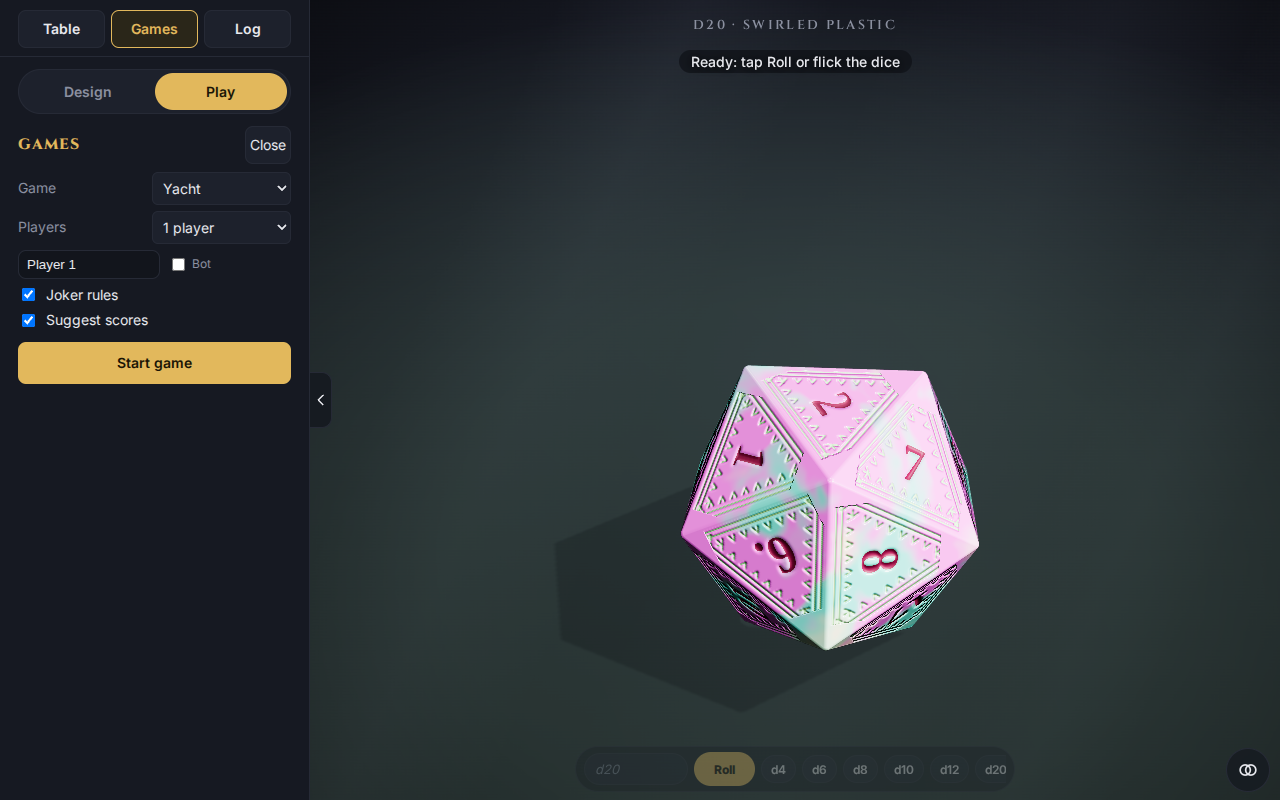
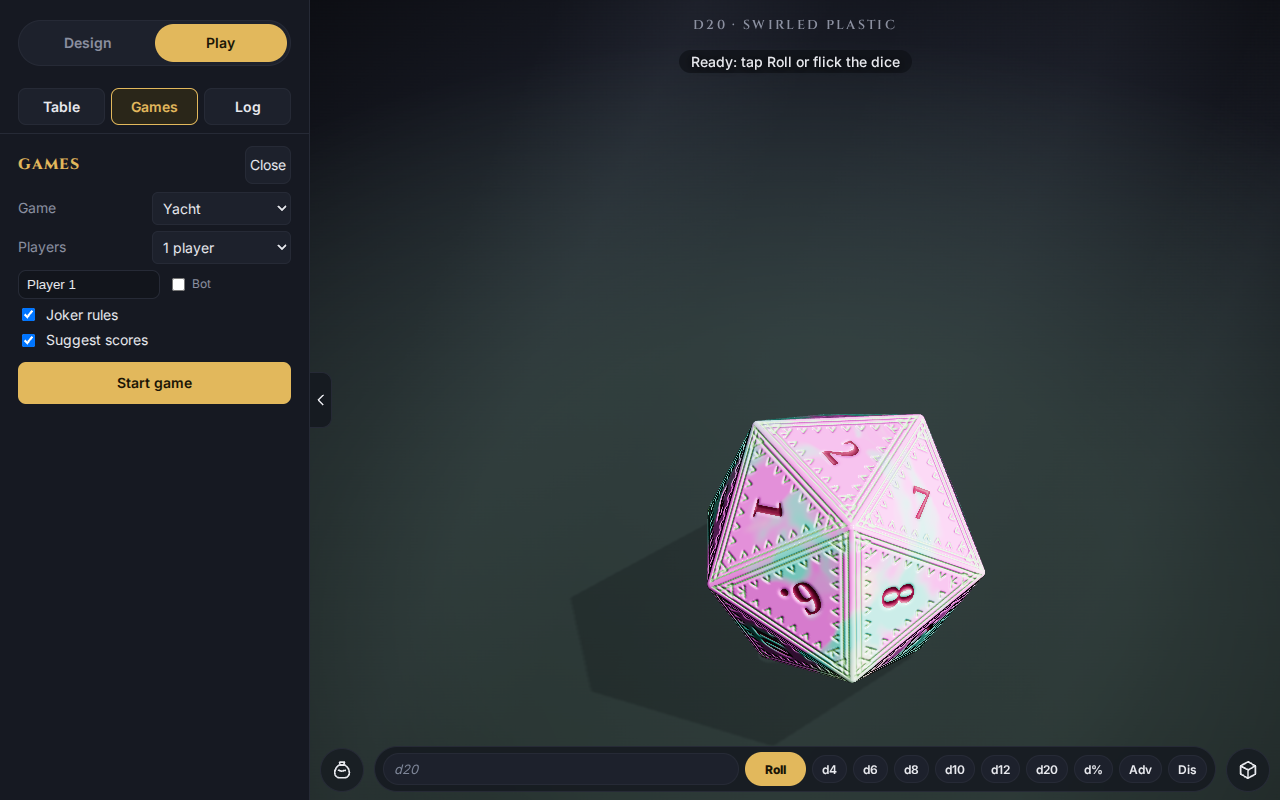
Guide: review against live 4.0 app, phone shots, regenerated screenshots, CHANGELOG/README fixes

diff --git a/README.md b/README.md
@@ -32,7 +32,7 @@ Online, the page loads three.js, cannon-es and fonts from cdn.jsdelivr.net and G
 
 ## Designing Dice
 
-Two rooms, switched with **Design | Play** (the switch never throws the dice). In the **Design** room the die floats and turns and the side panel (below the table on a phone) holds the look settings, with **Undo / Redo** (Ctrl+Z, Ctrl+Y) in a strip at its top. The utilities drawer (paired-circles button, bottom right) has sound, Reset view, Full view, Hints and Pause spin.
+Two rooms, switched with **Design | Play** (the switch never throws the dice). In the **Design** room the die floats and turns and the side panel (below the table on a phone) holds the look settings, with **Undo / Redo** (Ctrl+Z, Ctrl+Y) in a strip at its top. The utilities drawer (paired-circles button, bottom right) has sound, Reset view, Full view, Hints, Pause spin and the Design | Play switch (the only place for it on a phone).
 
 - **Randomize** (or press Space) rerolls the look; "Also randomize" chooses whether the substrate and the shape change too.
 - **Shape**: pick a die, or build a **Custom set** (see below). A tap picks one die; a double-click or long press adds one to the formula.
@@ -53,7 +53,7 @@ In the **Play** room, the gold **Roll** button in the dock (or `r`) is the only 
 - **The tray** is sized from the dice (how many and how big), not from the screen, and the camera starts far enough back to show all of it. Zoom is yours to change.
 - **Roll feel & sound** (it moves to the top of the pane while you roll): **Bounciness**, **Dice friction** and **Mat friction** change how the dice behave; the defaults are slippery enough that dice slide apart instead of snagging.
 - **Leaning dice** are never hidden. A die that comes to rest propped on another, or balanced on an edge, gets an orange ring on the mat and a warning. **Re-roll leaning** drops only those dice in again from above. If one of them later tips over, the result and any natural 20 effect are read again.
-- **Sound** is off until you turn it on (the speaker button on the view, or the checkbox); see [Sound](#sound) below. On an iPhone the sound plays even when the ring/silent switch is on silent. **Test sound** plays a blip and shows what the browser says about audio, which helps when a phone stays quiet.
+- **Sound** is off until you turn it on (the Sound item in the utilities drawer, or the Rolling sound checkbox in the Table tab); see [Sound](#sound) below. On an iPhone the sound plays even when the ring/silent switch is on silent. **Test sound** plays a blip and shows what the browser says about audio, which helps when a phone stays quiet.
 
 ### Sound
 
@@ -76,7 +76,7 @@ How it works and how to tune it: [sounds/README.md](sounds/README.md).
 
 ## Desktop vs. Mobile
 
-The layout fits any window: the settings pane sits beside the view on a wide screen and below it on a narrow one. **Full view** (the pane's arrow, `h`, or the drawer) hides the settings for a full-screen view. On a phone the Design | Play switch is at the top left and the look-from-above eye at the top right. On touch devices, drag to orbit, pinch to zoom, and flick to roll again. Text fields are 16 px so iOS Safari does not zoom in when you tap them. Optionally, shake the phone to roll (needs motion sensors; the browser may ask permission).
+The layout fits any window: the settings pane sits beside the view on a wide screen and below it on a narrow one. **Full view** (the pane's arrow, `h`, or the drawer) hides the settings for a full-screen view. On a phone the Design | Play switch is in the utilities drawer and the look-from-above eye is at the top right. On touch devices, drag to orbit, pinch to zoom, and flick to roll again. Text fields are 16 px so iOS Safari does not zoom in when you tap them. Optionally, shake the phone to roll (needs motion sensors; the browser may ask permission).
 
 ## Saving and Loading
 

diff --git a/CHANGELOG.md b/CHANGELOG.md
@@ -16,7 +16,7 @@ User-facing changes. Versions are git tags.
 - **Advantage and disadvantage** (`d20adv`, `d20dis`, with a modifier such as `d20+5 adv`) with **Adv** and **Dis** buttons. The dropped die is marked, and a dropped natural 20 or 1 triggers no effect.
 - **Keep highest / lowest and drop** (`4d6kh3`, `kl`, `dh`, `dl`; the number defaults to 1).
 - **Group rolls**: `4x d20+2` rolls each die separately with the modifier on each; saved sets keep it.
-- **Quick roll bar** at the table: type a formula, pick a saved set or a plain die, and roll. A formula that does not parse shows the reason as text.
+- **Quick roll bar** (the dock along the bottom of the table): type a formula, pick a saved set or a plain die, and roll. A formula that does not parse shows the reason as text.
 - **Result tables.** A set can carry a result table that is shown on the roll, in the log and in the text export.
 - **Roll log.** Entries have notation titles, per-roll labels and the roller's name; **Copy** and **Save as text** export it. **Initiative tracker**: add a roll to an ordered initiative list with turn and round, or add a named entry with a score by hand.
 
@@ -24,10 +24,10 @@ User-facing changes. Versions are git tags.
 - **Design | Play.** One switch changes between the **Design** room (the die floats and turns; the **Look** settings, Undo and Redo) and the **Play** room (dice on the table; tabs **Table**, **Games** and **Log**). Switching never throws the dice.
 - **One Roll button.** The gold **Roll** in the dock along the bottom of the table is the only control that throws dice. The dock holds the formula box and chips for d4 to d%, **Adv** and **Dis**; tap a chip to replace, double-click or long-press to add. Games put their actions (Bank, Set aside, Cash out) in the dock.
 - **Utilities drawer** with sound, Reset view, Full view, Hints, Pause spin and the Design | Play switch. **Full view** hides the panel; on a phone its handle sits in the tab row.
-- **Bag, Sets and Log** open inside the panel tabs. One round **Bag** button, bottom left, opens the Bag view (Designs and Sets), which is also where the bag is saved, loaded and copied.
+- **Bag view and Log.** The Log is a tab in the Play room's panel. One round **Bag** button, bottom left, opens the Bag view (Designs and Sets), which is also where the bag is saved, loaded and copied.
 - **Set editor is draft-first.** Nothing joins the bag until **Save**; **Close** discards. **New set** opens an empty draft.
 - **Undo and Redo** moved to a strip at the top of the Design panel.
-- **Phone layout.** The top strip holds the Design | Play switch; the leaning and held chips and the look-from-above handle sit at the top right; the dock keeps the formula box and Roll on one row while the chips scroll; long breakdown lines wrap.
+- **Phone layout.** The Design | Play switch lives in the Utilities drawer; the leaning and held chips and the look-from-above handle sit at the top right; the dock keeps the formula box and Roll on one row while the chips scroll; long breakdown lines wrap.
 - **Shape buttons** work the same in Design and Play and never roll: tap picks one die, double-click or long-press adds one to the formula.
 
 ### New: design and feel

diff --git a/docs/guide/01-first-steps.md b/docs/guide/01-first-steps.md
@@ -6,7 +6,7 @@ When the page opens you see one die turning slowly in the middle of the screen, 
 
 ## Two rooms: Design and Play
 
-One switch, **Design | Play**, decides what you are doing (just under the tabs in the side panel on a desktop, at the top left on a phone). Switching never throws the dice.
+One switch, **Design | Play**, decides what you are doing (at the top of the side panel on a desktop; on a phone it lives in the Utilities drawer, as **Switch to Play** / **Switch to Design**). Switching never throws the dice.
 
 - **Design room**: the die floats and turns. Drag to turn it by hand, scroll or pinch to zoom, right-drag or two fingers to orbit, double-click to reset the view. The panel is always the **Look** settings (shape, material, colours, numbers, Randomize, save and export), with **Undo** and **Redo** in a strip at its top. The round **Bag** button at the bottom left of the table opens the Bag view (your designs and saved sets), and the shelf sits along the bottom of the table.
 - **Play room**: the dice lie on the table. The panel has the tabs **Table** (dice to roll, roll feel and sound), **Games** and **Log**. A dock along the bottom of the table has the formula box, the one gold **Roll** button (the only button that throws dice) and the preset chips.
@@ -21,11 +21,15 @@ One switch, **Design | Play**, decides what you are doing (just under the tabs i
 
 | Control | What it does |
 |---|---|
-| **Design | Play** switch | Changes room. Never throws. |
+| **Design | Play** switch | Changes room. Never throws. Top of the side panel on a desktop; in the Utilities drawer on a phone. |
 | Utilities (the paired-circles button, bottom right of the table) | Opens the drawer: **Design | Play** (in every view), sound on or off, **Reset view**, **Full view**, **Hints**, and **Pause spin** in the Design room. |
 | Panel handle | The small arrow at the edge of the panel (on a phone, at the middle of the tab row) hides it for a full view of the table; the same arrow at the screen edge brings it back. `h` does the same. |
 | Dock (Play room) | Formula box, preset chips (d4 to d%, Adv, Dis) and the **Roll** button. See [Rolling](05-rolling.md). |
 | Shelf (Design room) | Your designs; tap one to switch to it. See [the bag and shelf](03-bag-and-shelf.md). |
+
+## If it loads slowly
+
+The first load builds the dice and can take a while on a slow device. A boot screen with a tumbling die shows the step name, "step N of M" and the elapsed time. If the page freezes for a moment later, a small toast near the top, **UI paused N s**, says so; tap it to copy the details if you need to report a problem.
 
 ## Where next
 

diff --git a/docs/guide/05-rolling.md b/docs/guide/05-rolling.md
@@ -9,7 +9,7 @@ The **Roll** button is the only control that throws dice. Switching rooms, tappi
 ## Ways to roll again
 
 - Press **Roll**, press `r`, or press Enter in the formula box.
-- **Flick** the dice on the table.
+- **Flick** the dice on the table: they are thrown the way you flicked, at the speed you let go.
 - On a phone, **shake** the phone if the Shake option (Table tab) is on; it only appears on devices that can sense motion.
 
 ## The dock
@@ -22,7 +22,7 @@ A group roll shows its results side by side with a breakdown per roll, and a nat
 
 ## Holding dice
 
-Tap a settled die to **hold** it: a gold ring appears and it stays put when you roll again. Tap it again to let go. Games use this for Yacht-style turns. A held die that a re-roll bumps is lifted and turned back to its face. A pink ring marks a die that is leaning (cocked), and a small chip at the top left of the table says **⚠ Fix N leaning dice** (tap it to re-roll just those); a leaning die cannot be held until it settles flat. The chip for held dice reads **N held · release**.
+Tap a settled die to **hold** it: a gold ring appears and it stays put when you roll again. Tap it again to let go. Games use this for Yacht-style turns. A held die that a re-roll bumps is lifted and turned back to its face. A pink ring marks a die that is leaning (cocked), and a small chip at the top right of the table says **⚠ Fix N leaning dice** (tap it to re-roll just those); a leaning die cannot be held until it settles flat. The chip for held dice reads **N held · release**.
 
 ## Change one die's design
 
@@ -32,7 +32,7 @@ Press and hold a settled die for about half a second (or right-click it) to open
 
 ![Bounciness, friction and sound controls](img/13-roll-controls.png)
 
-In the **Table** tab, **Bounciness**, **Dice friction** and **Mat friction** change how the dice move. Sound settings are in the same tab; see [Sound](09-sound.md).
+In the **Table** tab, under **Roll feel**, **Bounciness**, **Dice friction** and **Mat friction** change how the dice move (on a phone, also the **Shake phone to roll** option). The **Sound** settings are further down the same tab; see [Sound](09-sound.md).
 
 ## Looking at the result
 

diff --git a/docs/guide/08-phone-vs-desktop.md b/docs/guide/08-phone-vs-desktop.md
@@ -1,10 +1,10 @@
 # Phone versus desktop
 
-The same page adapts to the screen. Both sizes have the same two rooms, the same tabs and the same one **Roll** button.
+The same page adapts to the screen. Both sizes have the same two rooms, the same tabs and the same one **Roll** button. The Utilities drawer (sound, Reset view, Full view, Hints, Pause spin, and on a phone the room switch) is the button at the right edge of the table, bottom right.
 
 |  | Desktop | Phone |
 |---|---|---|
-| Design \| Play switch | Just under the tabs in the side panel | Top left |
+| Design \| Play switch | Top of the side panel | In the Utilities drawer (**Switch to Play** / **Switch to Design**) |
 | Panel | Side panel on the left | A strip below the table that scrolls |
 | Turn the die | Drag | Drag |
 | Zoom, orbit | Scroll, right-drag | Pinch, two fingers |
@@ -15,7 +15,7 @@ The same page adapts to the screen. Both sizes have the same two rooms, the same
 
 On a phone, hide the panel with its arrow when you want the whole table; the dock keeps the formula box and **Roll** on one row with the chips scrolling beside it. While a game is running the Games tab becomes **Scorecard**, and the game's status line is at the top of the table; hold it for a top-down look.
 
-On small screens the long breakdown line wraps instead of running off the edge, and the leaning and held notices are small chips.
+On small screens the long breakdown line wraps instead of running off the edge, and the leaning and held notices are small chips at the top right of the table (beside the top-down eye on a phone).
 
 ![Showcase on a phone screen](img/15-phone-showcase.png)
 
@@ -24,3 +24,5 @@ On small screens the long breakdown line wraps instead of running off the edge, 
 ![The bag sheet on a phone](img/17-phone-bag.png)
 
 ![A Yacht game on a phone, with the Scorecard tab](img/20-phone-game.png)
+
+![The Utilities drawer on a phone, with Switch to Play at the bottom](img/28-phone-drawer.png)

diff --git a/docs/guide/10-games.md b/docs/guide/10-games.md
@@ -21,11 +21,13 @@ Switch to the Play room and open the **Games** tab. Choose a **Game** (the game 
 1. Press the dock's **Roll** button (it reads **Roll** or, with dice held, **Roll 3 dice**). The dice are thrown and the scorecard fills with what each box would score: **italic** numbers are suggestions and the best one is **bold gold**.
 2. **Tap a settled die to hold it**; a gold ring shows. The dock button now says how many will be thrown, for example **Roll 3 dice**.
 
-![Two dice held with gold rings, the scorecard showing suggestions](img/19-yahtzee-hold.png)
+![A Yacht turn on a desktop: the scorecard with suggestions beside the dice (tap a settled die to hold it)](img/19-yahtzee-hold.png)
 
 3. Roll again (up to three throws), then tap a scorecard box to score it. After 13 rounds the game ends. **End game** quits early and returns you to the Games setup, still in the Play room. While a game runs, the Games tab becomes the **Scorecard** tab.
 
 While a game runs the big total on the table is hidden: the status line at the top (with the eye icon) shows the turn, and holding it, or the eye button in the top-right corner on a phone, or holding the `t` key, gives a top-down look at the dice. The dock holds the game's actions (such as **Bank** or **Cash out**) beside the one gold Roll button; the preset chips are hidden until the game ends. You can visit the Design room mid-game; the game keeps going and Play shows a dot.
+
+![On a phone, a Yacht game with the Scorecard tab and the Roll button in the dock](img/29-phone-scorecard.png)
 
 ## The other games
 

diff --git a/docs/guide/03-bag-and-shelf.md b/docs/guide/03-bag-and-shelf.md
@@ -12,6 +12,10 @@ Tap **+ Add** at the end of the shelf. You can choose:
 - **Random draft**: a fresh random look. In the Look tab a block under Randomize shows its thumbnail and name with **Keep** and **Discard**. When you change a design that is already in the bag, the same block shows **Save**, **Save as copy** and **Revert** (the same actions as in the Bag view)
 - **From a file…**: add a design saved earlier
 
+![On a phone: the Add menu above the shelf](img/24-phone-add-menu.png)
+
+On a phone the shelf sits at the bottom of the table, with **+ Add** at its end.
+
 ## The Bag view
 
 ![The bag sheet showing the Designs tab](img/08-bag-designs.png)
@@ -30,5 +34,7 @@ The **Sets** tab of the Bag view has two buttons at the top: **Save the current 
 - **⚡** quick roll: rolls that set straight away and records it in the log.
 - **✎** edit: opens the set's editor in the tab (presets, formula, modifier and an optional result table).
 - **⋯** menu: Edit, Make a copy, Open (loads the set and goes to the Play room without throwing), Move up, Move down, Delete.
+
+![On a phone: the Sets tab of the Bag view](img/25-phone-sets.png)
 
 See [Sets and the editor](04-sets-and-editor.md) for building and saving sets.

diff --git a/docs/guide/02-designing-a-die.md b/docs/guide/02-designing-a-die.md
@@ -16,7 +16,7 @@ The material the die is made of (choosing **Stone** gives you a random stone; th
 
 ## Colours (Base)
 
-![Colour swatches, paint mode and finish](img/04-colors.png)
+![Colour swatches, swirl scale, edge radius and finish](img/04-colors.png)
 
 - **Base** holds up to three colour swatches. The dice button beside them picks a new set.
 - **Swirl scale** and **Edge radius** shape the pattern and how rounded the corners are.
@@ -40,6 +40,10 @@ The material the die is made of (choosing **Stone** gives you a random stone; th
 - **Face panel** and **Panel depth** sink or raise a panel behind the number. The panel is what lets the numbers be Raised.
 - **Patina** ages the die; **Antique relief preset** applies a worn look in one click.
 - **Filigree** (the last controls in the Numbers section, after Number style) adds ornament: Scrollwork, Beaded border or Art-deco lines. **Fill with enamel** colours it in; **Enamel matches number paint** keeps the two in step.
+
+![On a phone: the Look panel below the table, scrolled to Substrate](img/23-phone-design-pane.png)
+
+On a phone the Look panel is the strip below the table; scroll it for the same sections.
 
 ## Naming and keeping a design
 

diff --git a/docs/guide/README.md b/docs/guide/README.md
@@ -15,9 +15,9 @@ Read the pages in order the first time; later they work as reference.
 9. [Sound](09-sound.md)
 10. [Games](10-games.md): Yacht, Ten Thousand, Pig, Craps, Liar's Dice
 
-## Which pages depend on today's layout
+## Phone pictures
 
-The app's navigation was redesigned into Two rooms (PD-142.38). These pages are written around tasks, not positions, but their screenshots and the sentences naming a button's place are tied to the current layout and will need a refresh: 01 First steps, 03 Bag and shelf, 05 Rolling, 06 Roll log, 08 Phone versus desktop, 10 Games. Pages 02, 04, 07 and 09 are mostly about controls that keep their names.
+Pages 02, 03, 06, 08 and 10 carry a few phone-sized screenshots (390 x 844) next to the desktop ones, where the phone layout differs.
 
 ## About the pictures
 

diff --git a/docs/guide/06-roll-log.md b/docs/guide/06-roll-log.md
@@ -6,6 +6,8 @@ Every roll is recorded. Open the **Log** tab in the Play room to see it. If the 
 
 Each entry shows the total, the time and what was rolled. A roll typed into the dock or a notation box shows its formula (for example `d20` or `4x 1d20+2`); a roll of a saved set shows the set's name, and a ⚡ after it when you used the set's quick roll (⚡) button. For rolls of several dice or a group roll, the entry lists each die or each roll.
 
+![On a phone: the Log tab in the panel below the table](img/27-phone-log.png)
+
 ## Name who is rolling
 
 Type a name in **Who is rolling?** at the top and the entries that follow carry it. Useful when several people share a device.

diff --git a/docs/guide/09-sound.md b/docs/guide/09-sound.md
@@ -2,7 +2,7 @@
 
 Sound on or off is in the Utilities drawer (the paired-circles button at the bottom right of the table). Sound starts off.
 
-In **Roll feel & sound** (the **Table** tab in the Play room) you can set:
+In the **Sound** section of the **Table** tab in the Play room (with **Advanced sound** below it) you can set:
 
 - **Rolling sound** (soft ticks while dice tumble), and **Volume**.
 - **Sound set**: Classic synth, Procedural synth, Blend (Best + Kenney), Kenney samples or Best-of samples. **Audition** plays an example. For a blend, a slider and **Per hit / Layered / Auto** choose how the two are mixed.
